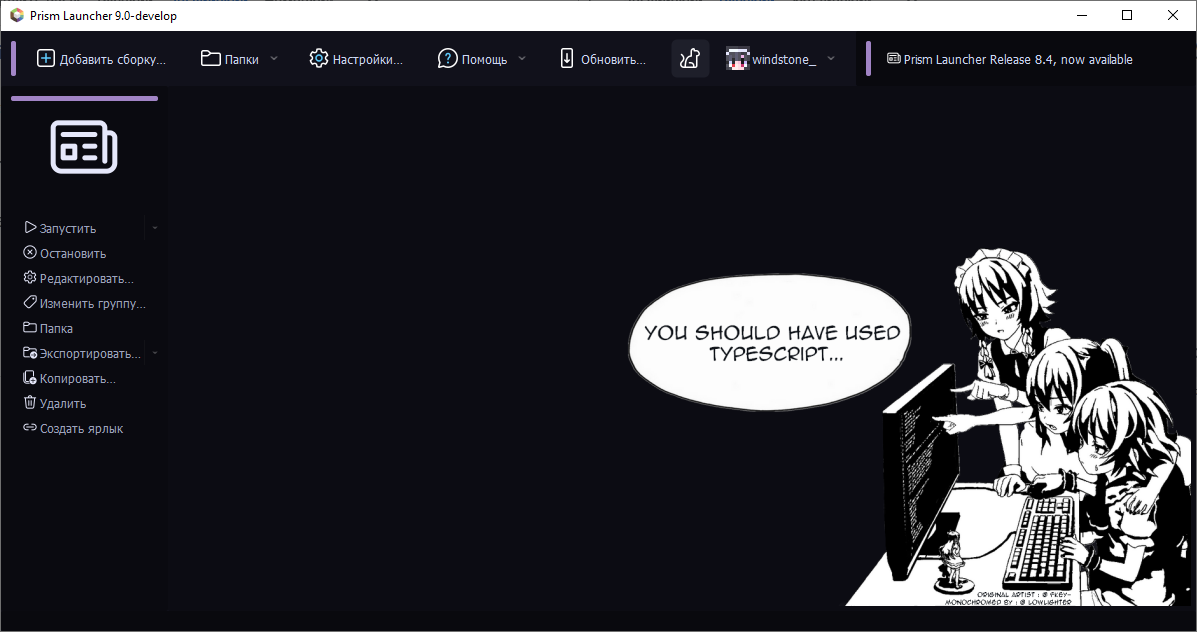
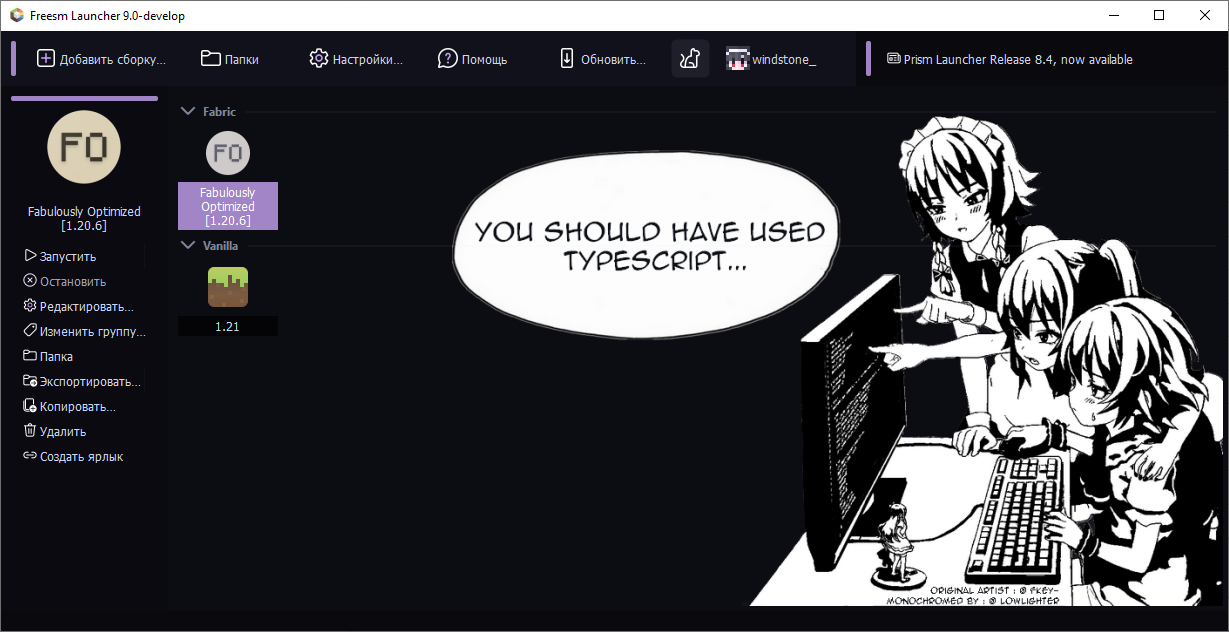
docs: update screenshots

diff --git a/README.md b/README.md
@@ -31,9 +31,10 @@
 <summary>Expand more</summary>
 
 <div align="center">
+  <img src="docs/screenshots/freesmlauncher_settings_accounts_screenshot.png">
   <img src="docs/screenshots/freesmlauncher_instance_add_screenshot.png">
   <img src="docs/screenshots/freesmlauncher_instance_settings_screenshot.png">
-  <img src="docs/screenshots/freesmlauncher_settings_theme_screenshot.png"">
+  <img src="docs/screenshots/freesmlauncher_settings_theme_screenshot.png">
 </div>
 
 </details>
